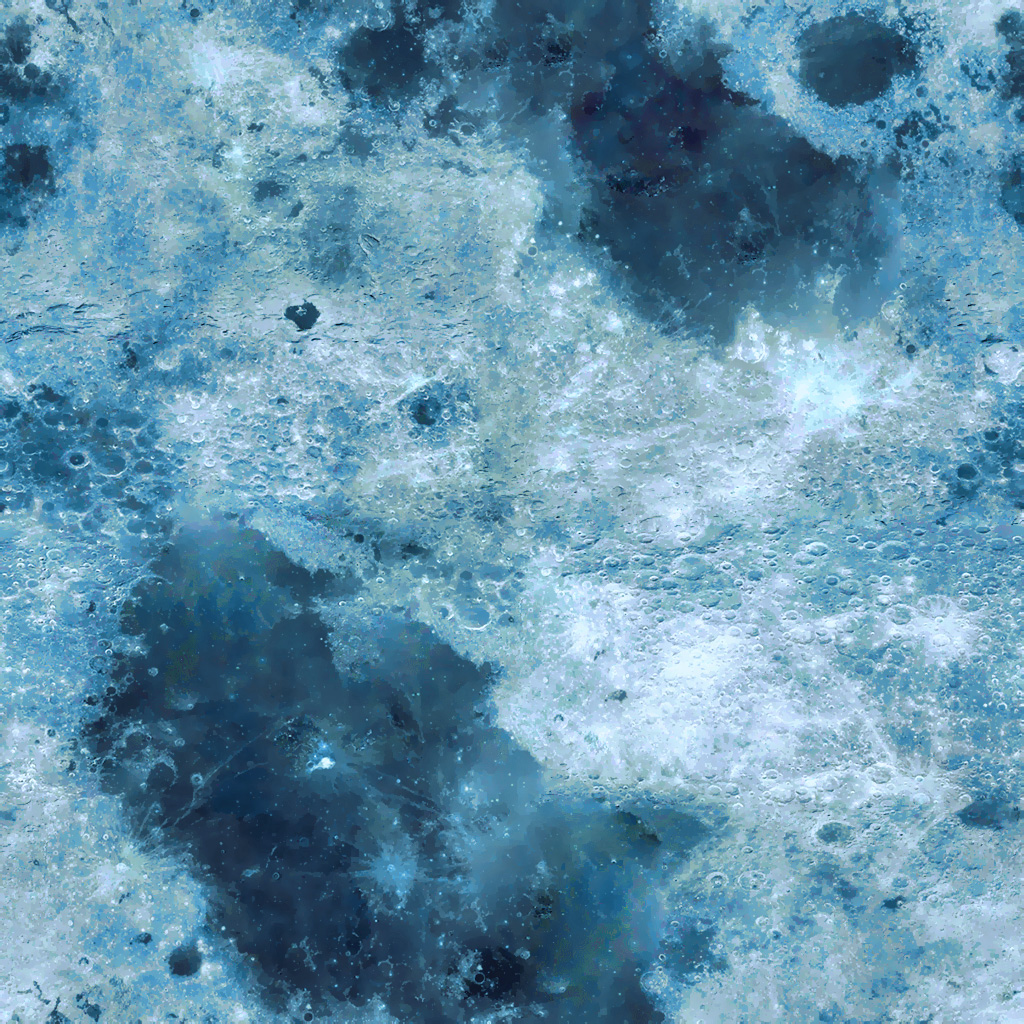
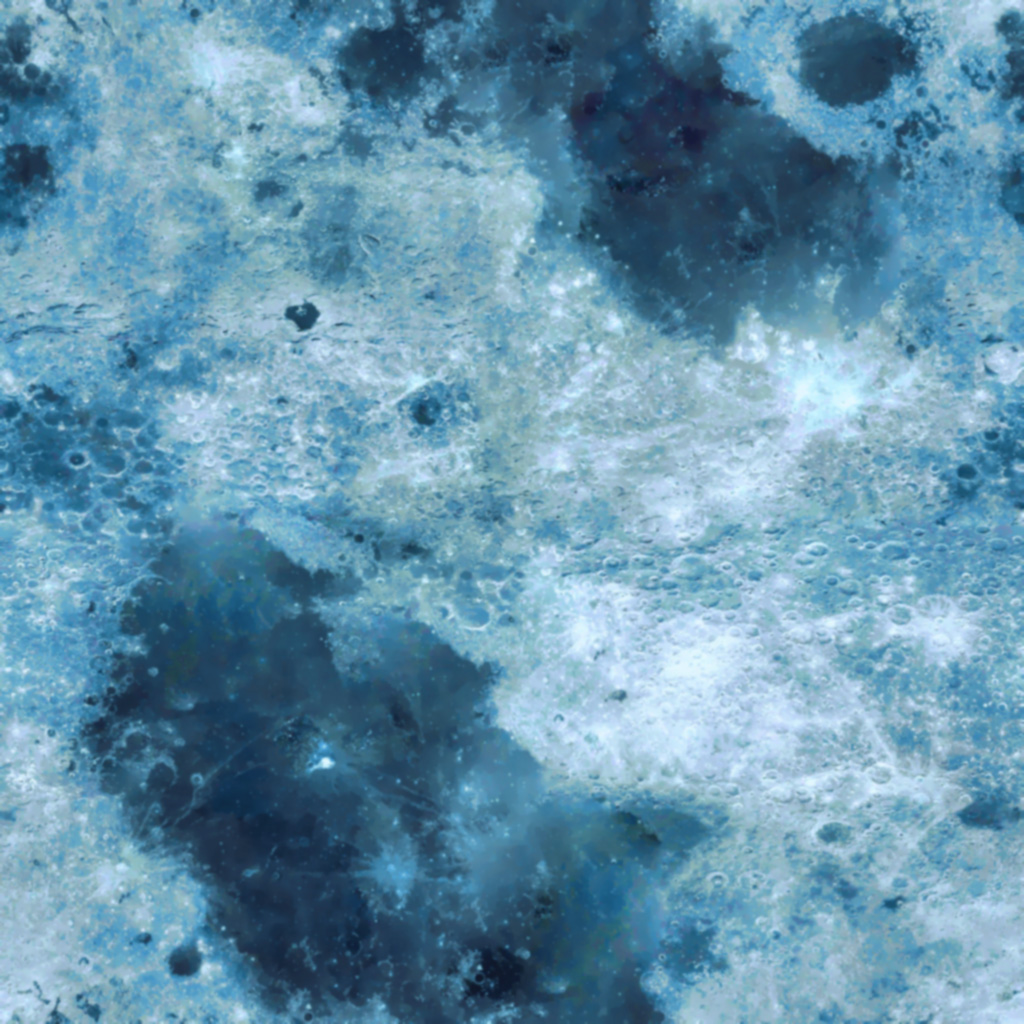
updated planet shader implementation

diff --git a/src/client/fx/Planet.js b/src/client/fx/Planet.js
@@ -7,15 +7,17 @@ var pixi = require('pixi'),
 
 function Planet(game) {
   this.planetTexture = new pixi.Texture(engine.Shader.getRepeatTexture(game, 'planet')),
-  this.cloudsTexture = new pixi.Texture(engine.Shader.getRepeatTexture(game, 'clouds'));
+  this.highlightTexture = new pixi.Texture(engine.Shader.getRepeatTexture(game, 'highlight'));
 
   engine.Shader.call(this, game, this.planetTexture);
 
-  this.atmosphere = new Atmosphere(game);
+  // create planet atmosphere
+  this.atmosphere = new Atmosphere(game, 0.12, 4.0, 1.0, [0.345, 0.71, 1.0]);
   this.atmosphere.cache();
   this.addChild(this.atmosphere);
 
   this.pivot.set(this.width/2, this.height/2);
+  this.scale.set(1.0, 1.0);
   this.position.set(2048/6, 2048/6);
 };
 
@@ -26,7 +28,7 @@ Planet.prototype.apply = function(renderer, shader) {
   shader.uniforms.time = this.game.clock.totalElapsedSeconds();
   shader.uniforms.translationMatrix = this.worldTransform.toArray(true);
   shader.uniforms.uSampler = renderer.bindTexture(this.planetTexture, 0);
-  shader.uniforms.uClouds = renderer.bindTexture(this.cloudsTexture, 1);
+  shader.uniforms.highlights = renderer.bindTexture(this.highlightTexture, 1);
 };
 
 Planet.prototype.getShader = function(gl) {

diff --git a/src/client/fx/Atmosphere.js b/src/client/fx/Atmosphere.js
@@ -4,8 +4,13 @@ var pixi = require('pixi'),
     glslify = require('glslify'),
     Shader = require('pixi-gl-core').GLShader;
 
-function Atmosphere(game) {
+function Atmosphere(game, dist, glow, offset, color) {
   engine.Shader.call(this, game, new pixi.Texture(engine.Shader.getRepeatTexture(game, 'planet')));
+
+  this.dist = dist;
+  this.glow = glow;
+  this.offset = offset;
+  this.color = color || [1.0, 1.0, 1.0];
 };
 
 Atmosphere.prototype = Object.create(engine.Shader.prototype);
@@ -16,6 +21,15 @@ Atmosphere.prototype.getShader = function(gl) {
     glslify(__dirname + '/shaders/planet.vert', 'utf8'),
     glslify(__dirname + '/shaders/atmosphere.frag', 'utf8')
   );
+};
+
+Atmosphere.prototype.apply = function(renderer, shader) {
+  shader.uniforms.translationMatrix = this.worldTransform.toArray(true);
+  shader.uniforms.uSampler = renderer.bindTexture(this.texture, 0);
+  shader.uniforms.dist = this.dist;
+  shader.uniforms.glow = this.glow;
+  shader.uniforms.offset = this.offset;
+  shader.uniforms.color = this.color;
 };
 
 module.exports = Atmosphere;
